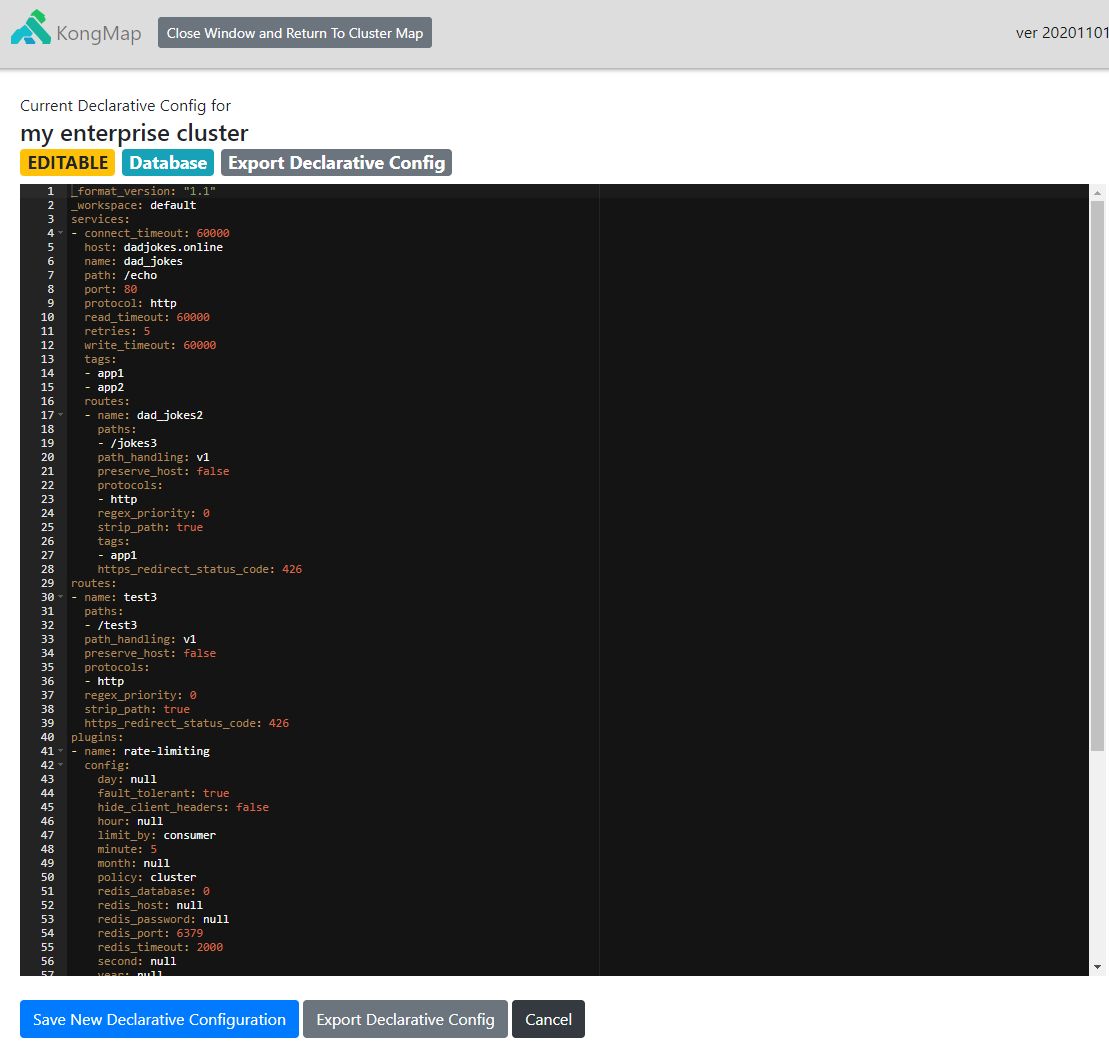
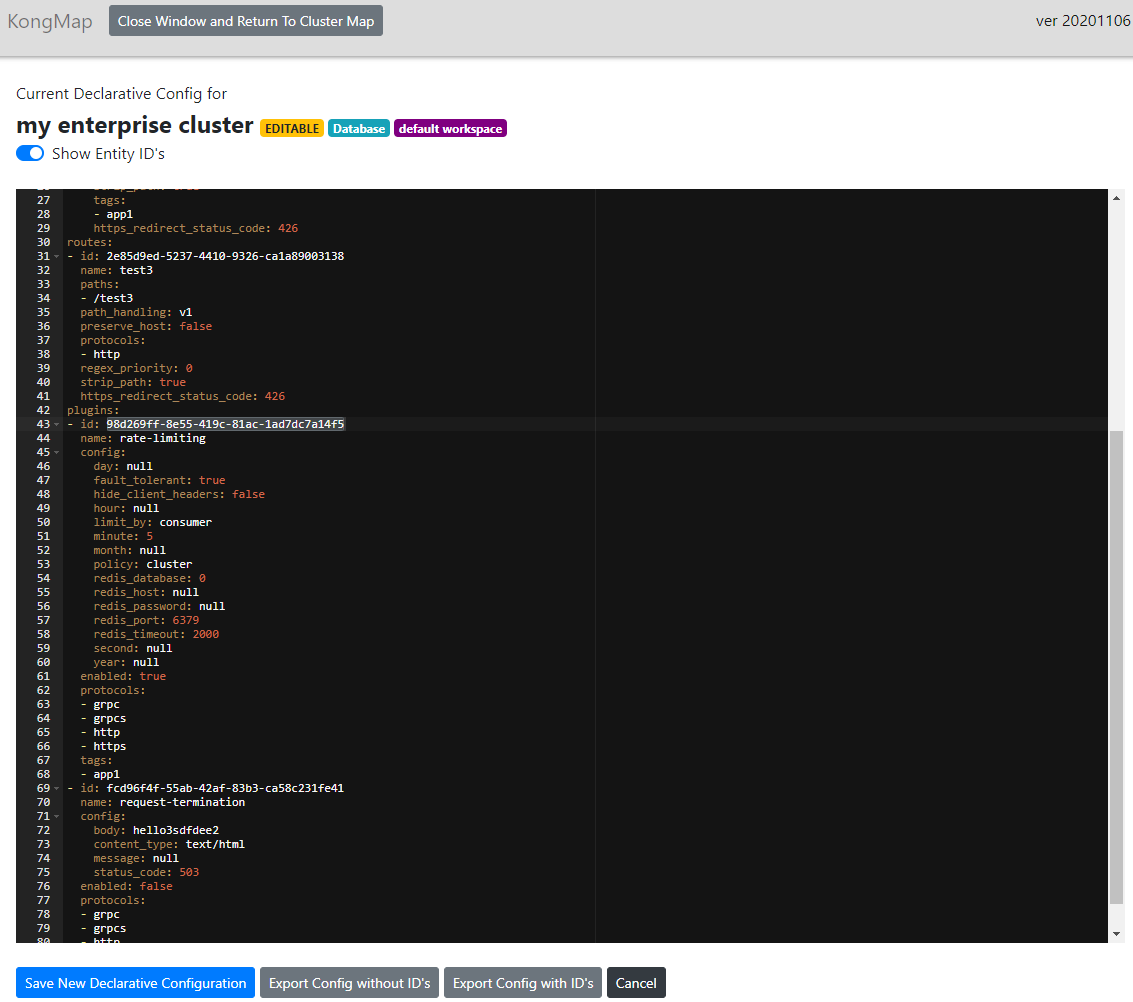
new release

Changed region(s): [[0.0, 0.0, 1.0, 1.0]]

diff --git a/CHANGELOG.md b/CHANGELOG.md
@@ -1,3 +1,12 @@
+## 20201113
+### Added
+- Counts for Kong entities (services, routes, plugins) on Cluster Map cluster entity.
+### Changed
+- Fixed Export Config with ID button function. Both buttons were previously exporting without ID's only.
+### Removed
+- None
+
+
 ## 20201106
 ### Added
 - Ability to edit specific routes, plugins, and services directly from cluster map view. Click on map node
